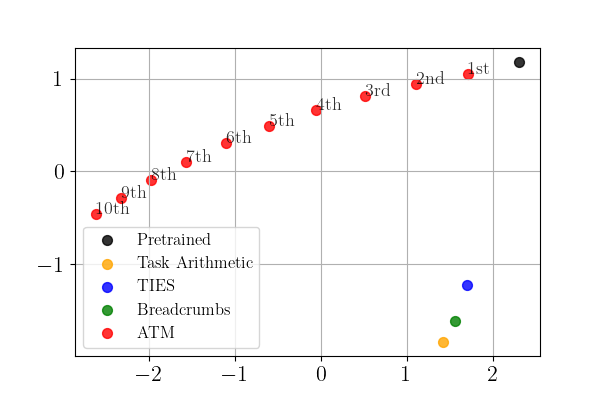
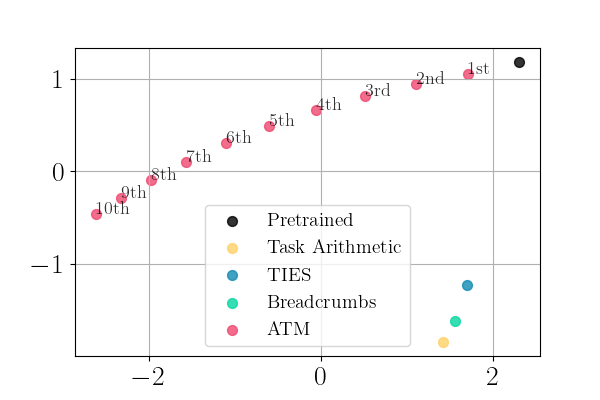
update PCA

diff --git a/src/scripts/pca.py b/src/scripts/pca.py
@@ -15,8 +15,8 @@ import matplotlib.pyplot as plt
 plt.rcParams["font.family"] = "serif"
 plt.rcParams["text.usetex"] = True
 
-plt.rc('xtick', labelsize=16) 
-plt.rc('ytick', labelsize=16) 
+plt.rc('xtick', labelsize=20)
+plt.rc('ytick', labelsize=20)
 
 wandb.login()
 
@@ -129,7 +129,13 @@ def run():
     group_ids = ['Pretrained'] * pt_arr.shape[0] + ['Task Arithmetic'] * tva_arr.shape[0] + ['TIES'] * ties_arr.shape[0] + ['Breadcrumbs'] * bc_arr.shape[0] + ['ATM'] * hota_arr.shape[0]
 
     # Assign colors to each group
-    colors = {'Pretrained': 'black', 'Task Arithmetic': 'orange', 'TIES': 'blue', 'Breadcrumbs': 'green', 'ATM': 'red'}
+    colors = {
+        'Pretrained': 'black', 
+        'Task Arithmetic': '#ffd166', 
+        'TIES': '#118ab2', 
+        'Breadcrumbs': '#06d6a0', 
+        'ATM': '#ef476f'
+    }
 
     pca = PCA(n_components=2)
     data_2d = pca.fit_transform(collective_arr)
@@ -149,7 +155,7 @@ def run():
     #plt.xlabel('PC1', fontsize=11)
     #plt.ylabel('PC2', fontsize=11)
     plt.grid(True)
-    plt.legend(prop={'size': 12})
+    plt.legend(loc='lower center', prop={'size': 14})
     plt.show()
 
 
